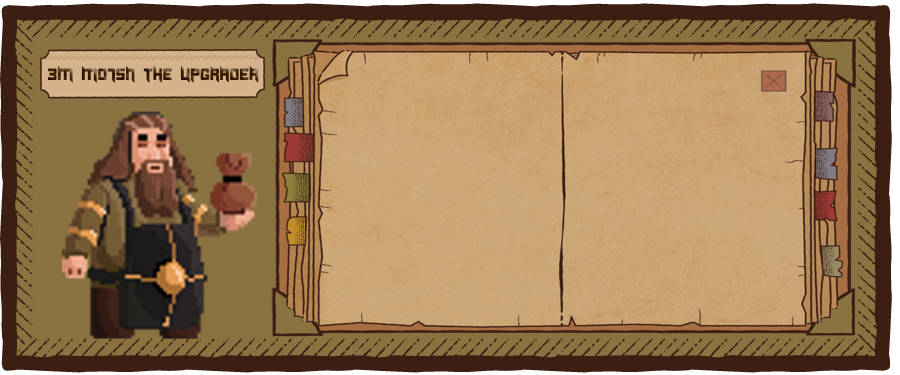
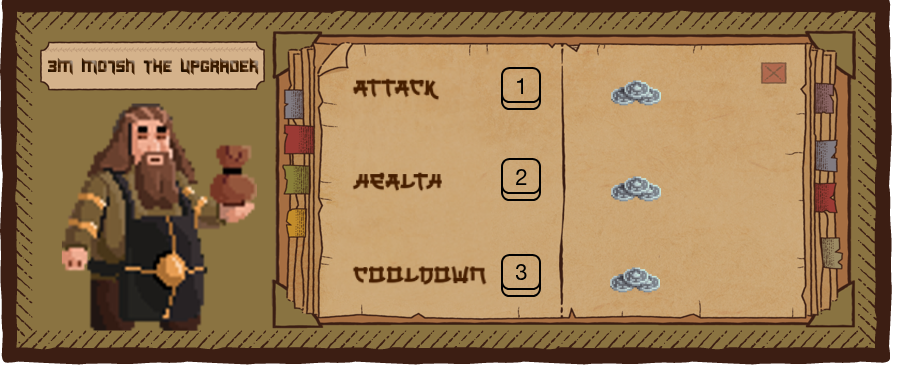
edited upgrade menu

diff --git a/GUI.cpp b/GUI.cpp
@@ -114,7 +114,7 @@ void GUI::setPlayerInfoTexture() {
 	loadingEffect.setTexture(loadingEffectTexture);
 	loadingEffect.setScale(3.15,3.15);
 	
-	coinsTexture.loadFromFile(R"(Materials\minerals\Transperent\Icon34.png)");
+	coinsTexture.loadFromFile(R"(Materials\items\Coins6mat\Coins6mat\coin53.png)");
 	coins.setTexture(coinsTexture);
 	coinsBackTexture.loadFromFile(R"(GUI\coins_back.png)");
 	coinsBack.setTexture(coinsBackTexture);
@@ -161,15 +161,20 @@ void GUI::drawUpgradeMenu()
 	upCo.setTexture(upCoTexture);
 	upCo.setScale(6, 4);
 	upCo.setPosition(firstPosition.x, firstPosition.y + 140);
-	firstPosition.x -= 470;
+
+	firstPosition.x -= 150;
 
 	upHeT.setPosition(firstPosition);
 	upAtT.setPosition(firstPosition.x, firstPosition.y - 140);
 	upCoT.setPosition(firstPosition.x, firstPosition.y + 140);
 
-	upHeT.setString("Health       " + to_string(healthUpCost) + "%    " + to_string((int)healthUp * 20) + "%");
-	upAtT.setString("Attack         " + to_string(damageUpCost) + "$   " + to_string((int)damageUp * 10) + "%");
-	upCoT.setString("cooldown  " + to_string(cooldownUpCost) + "$   " + to_string((int)cooldownUp * 5) + "% - " + to_string((int)cooldownUp * 3) + "%");
+	upHeT.setFillColor(Color{ 70,30,0 });
+	upAtT.setFillColor(Color{ 70,30,0 });
+	upCoT.setFillColor(Color{ 70,30,0 });
+
+	upHeT.setString(to_string(healthUpCost));
+	upAtT.setString(to_string(damageUpCost));
+	upCoT.setString(to_string(cooldownUpCost));
 
 	window.draw(upHe);
 	window.draw(upAt);
@@ -279,12 +284,12 @@ void GUI::updatePlayerInfo(RenderWindow& window) {
 	ultBar.setPosition(ultPosition.x, ultPosition.y + 30);
 	ultBar.setTextureRect(IntRect(0, 0, ultBarTexture.getSize().x, ultBarTexture.getSize().y*AblazeCharge/100.0));
 
-	coins.setPosition(coinsPosition.x-coinsTexture.getSize().x*2-40, coinsPosition.y + coinsTexture.getSize().y*2);
-	coins.setScale(2, 2);
+	coins.setPosition(coinsPosition.x-180, coinsPosition.y+20);
+	coins.setScale(0.6, 0.6);
 	coinsBack.setPosition(coinsPosition.x - coinsBackTexture.getSize().x * 7-20, coinsPosition.y + coinsBackTexture.getSize().y * 4);
 	coinsBack.setScale(7, 7);
 	coinsCnt.setString(to_string((int)coinsCount));
-	coinsCnt.setPosition(coinsPosition.x - 250, coinsPosition.y + 80);
+	coinsCnt.setPosition(coinsPosition.x - 270, coinsPosition.y + 80);
 	coinsCnt.setCharacterSize(30);
 
 }
